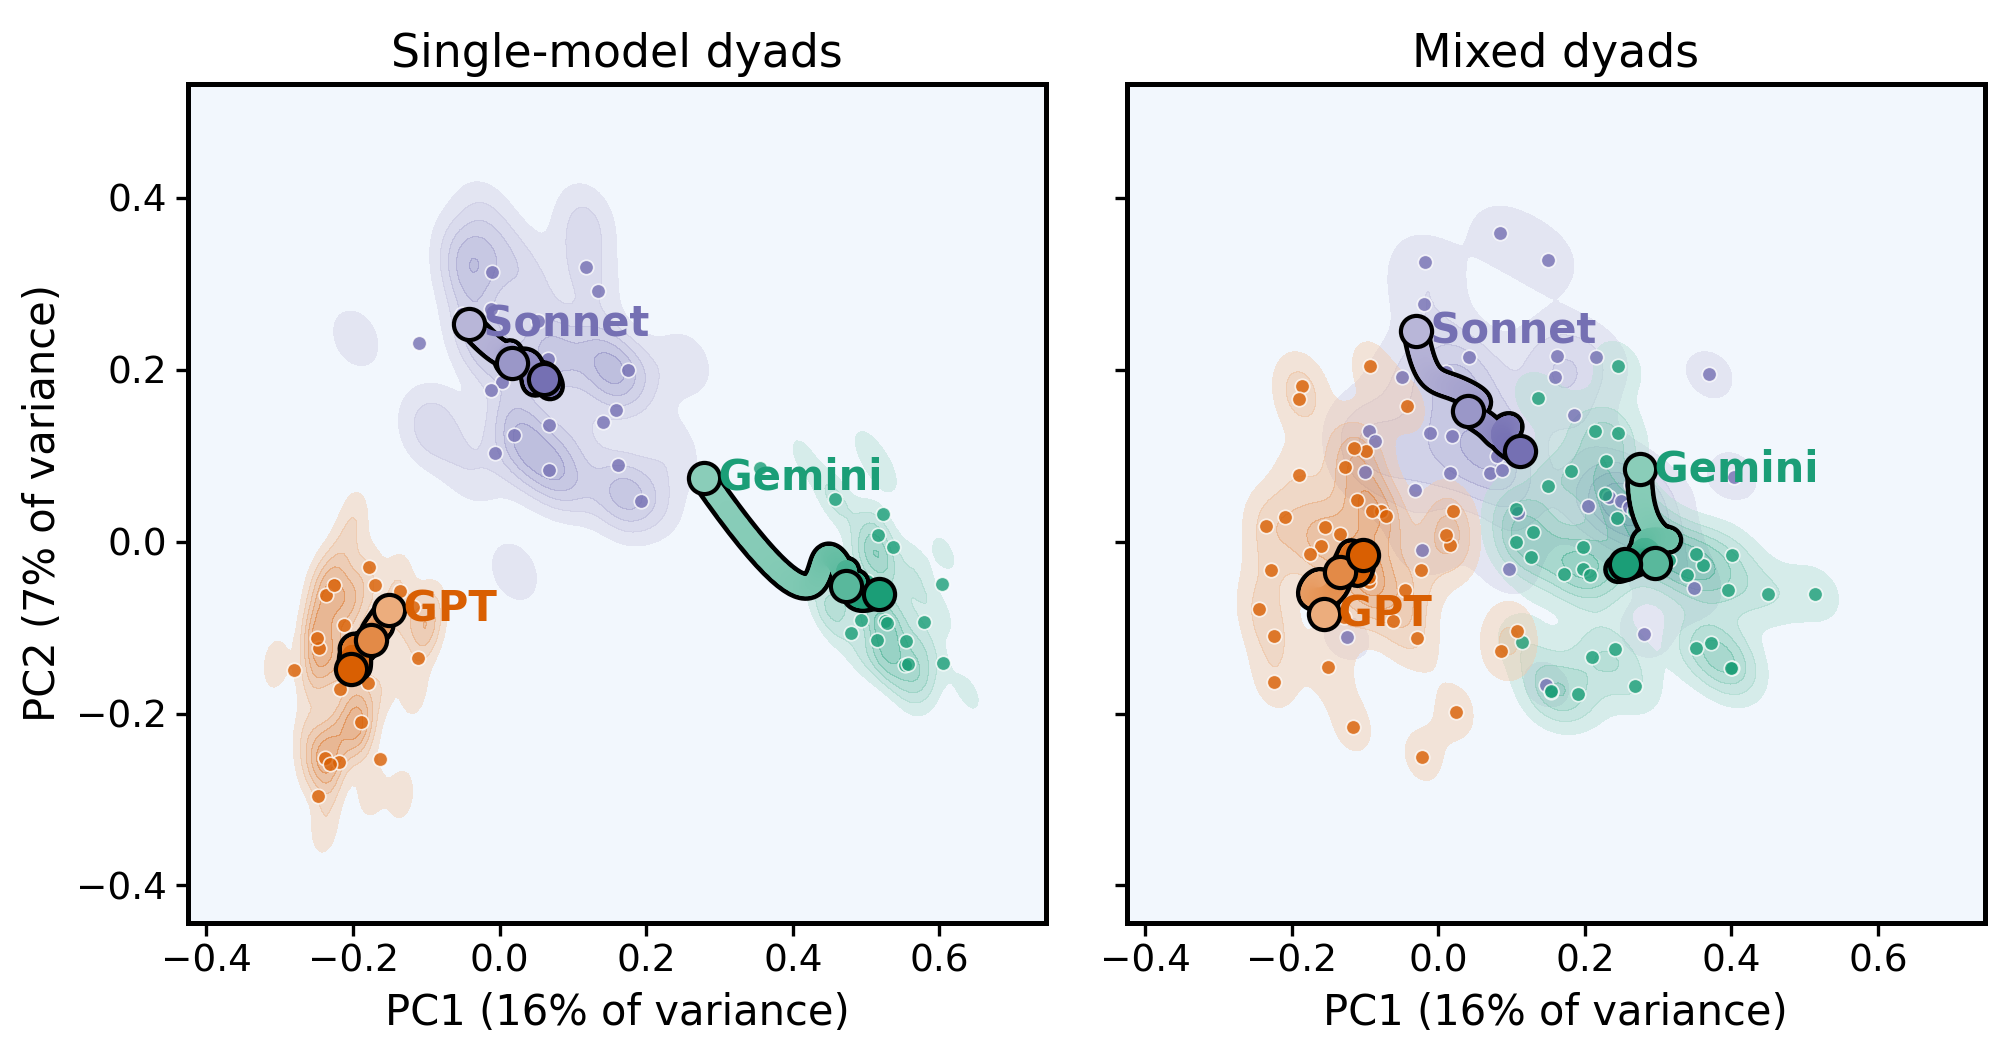
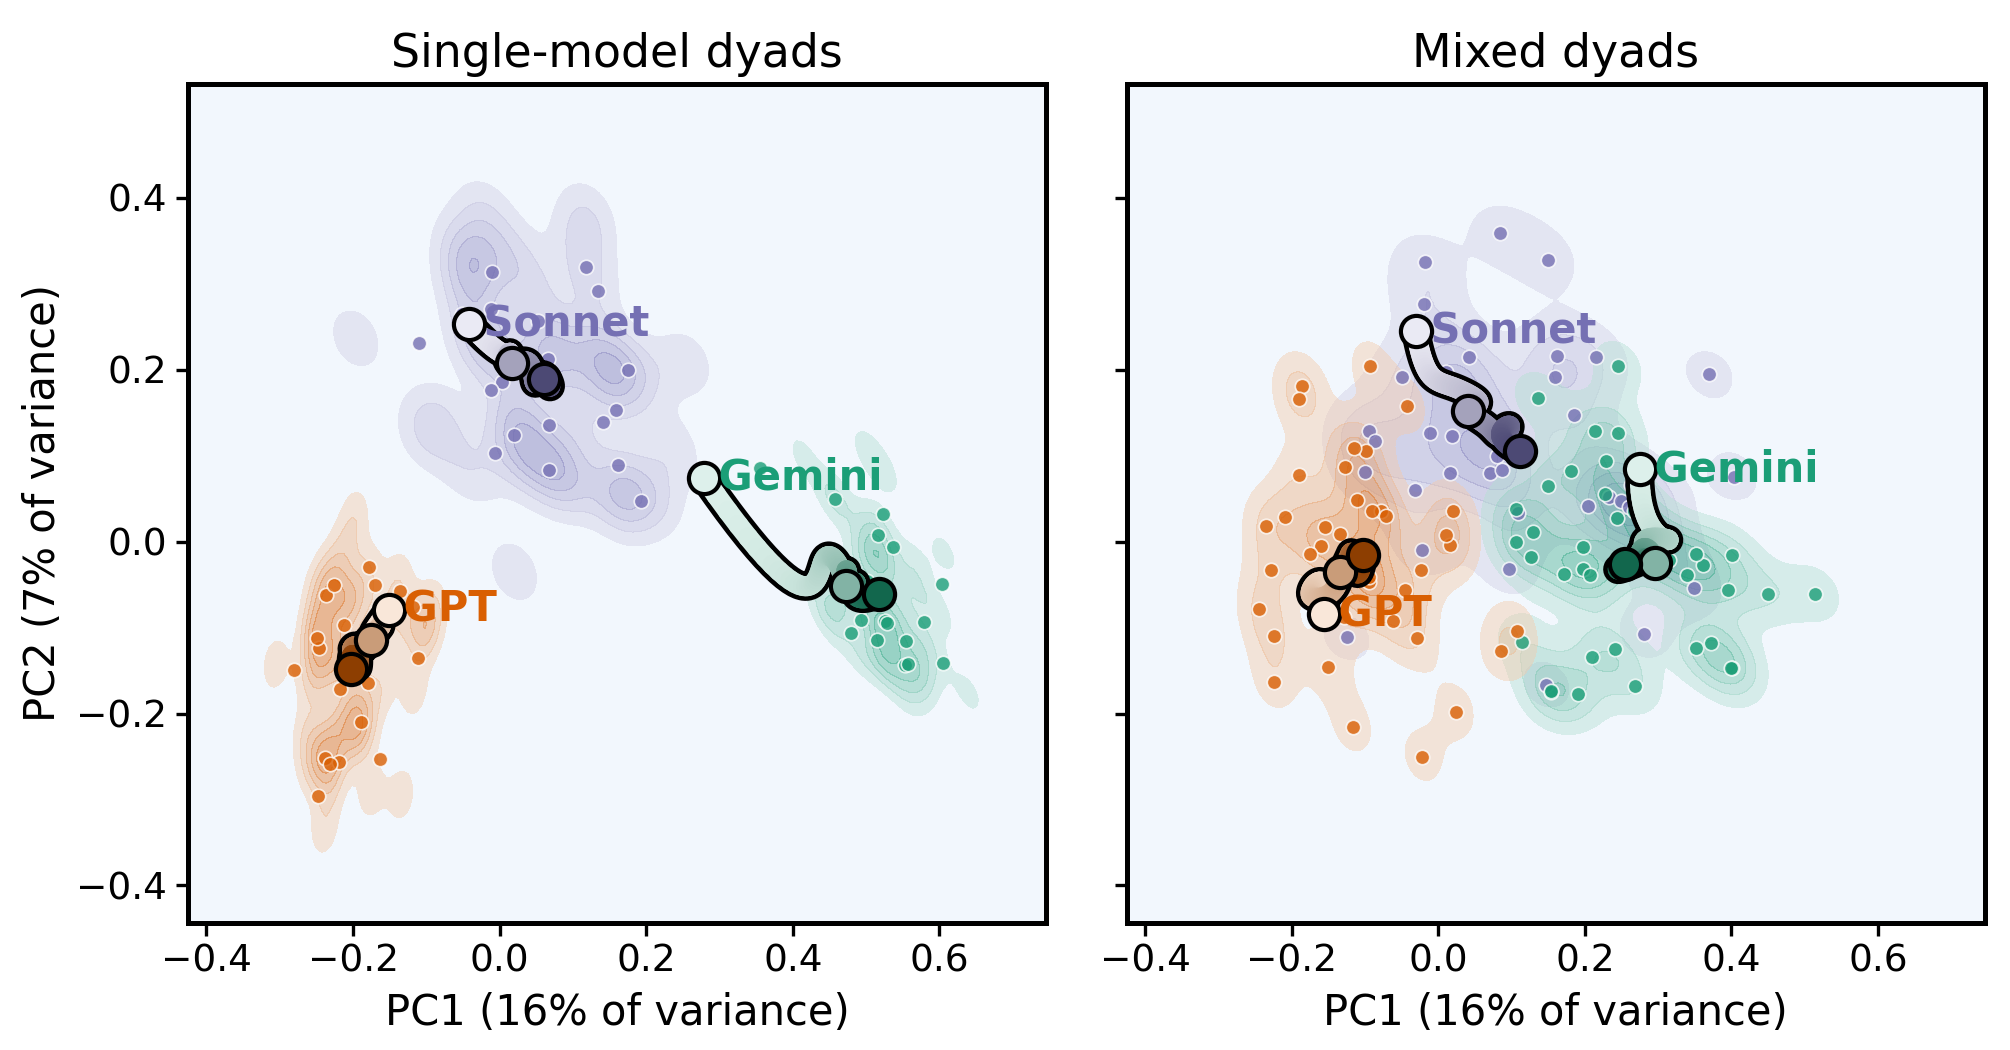
Myth trajectory maps: stronger round-1 vs round-10 contrast (pale tint -> darkened family colour)

diff --git a/analyses/plot_myth_trajectory_panel.py b/analyses/plot_myth_trajectory_panel.py
@@ -29,10 +29,17 @@ from analyses.myth_convergence_map import (MARK_ROUNDS, N10_OUT, ROUNDS, Map, lo
                                            write_provenance)
 
 import matplotlib.pyplot as plt  # noqa: E402
-from matplotlib.colors import LinearSegmentedColormap  # noqa: E402
+from matplotlib.colors import LinearSegmentedColormap, to_rgb  # noqa: E402
 from scipy.interpolate import make_interp_spline  # noqa: E402
 
 GROUP = {8: "populations", 2: "dyads"}
+
+
+def tone(color, t: float):
+    """t=0: pale tint (round 1); t=1: the family colour darkened by a third (round 10)."""
+    c = np.array(to_rgb(color))
+    pale, dark = 1 - (1 - c) * 0.15, c * 0.65
+    return tuple(pale + (dark - pale) * t)
 PATH_LW = 2.4
 
 
@@ -70,13 +77,13 @@ def main() -> None:
             sx = make_interp_spline(rounds, path.x, k=3)(t)
             sy = make_interp_spline(rounds, path.y, k=3)(t)
             ax.plot(sx, sy, color="k", lw=PATH_LW + 1.1, solid_capstyle="round", zorder=4)  # outline
-            for a in range(len(t) - 1):  # light -> dark = round 1 -> 10, starting darker than shade(.., 0)
-                ax.plot(sx[a:a + 2], sy[a:a + 2], color=shade(color, 0.35 + 0.65 * a / len(t)), lw=PATH_LW,
+            for a in range(len(t) - 1):  # pale -> dark = round 1 -> 10
+                ax.plot(sx[a:a + 2], sy[a:a + 2], color=tone(color, a / len(t)), lw=PATH_LW,
                         solid_capstyle="round", zorder=4.5)
             # no arrowhead: the spline's last few points wiggle, so a head points the wrong way;
             # light -> dark and the round 1/5/10 dots give the direction
             for r in MARK_ROUNDS:
-                ax.scatter(*path.loc[r], s=14, color=shade(color, 0.35 + 0.65 * (r - 1) / (rounds[-1] - 1)),
+                ax.scatter(*path.loc[r], s=14, color=tone(color, (r - 1) / (rounds[-1] - 1)),
                            edgecolor="k", lw=0.5, zorder=6)
             ax.text(*path.loc[1], f" {fam}", fontsize=5, color=color, fontweight="bold", zorder=7, va="center")
         kind = "Single-model" if not mixed else "Mixed"
